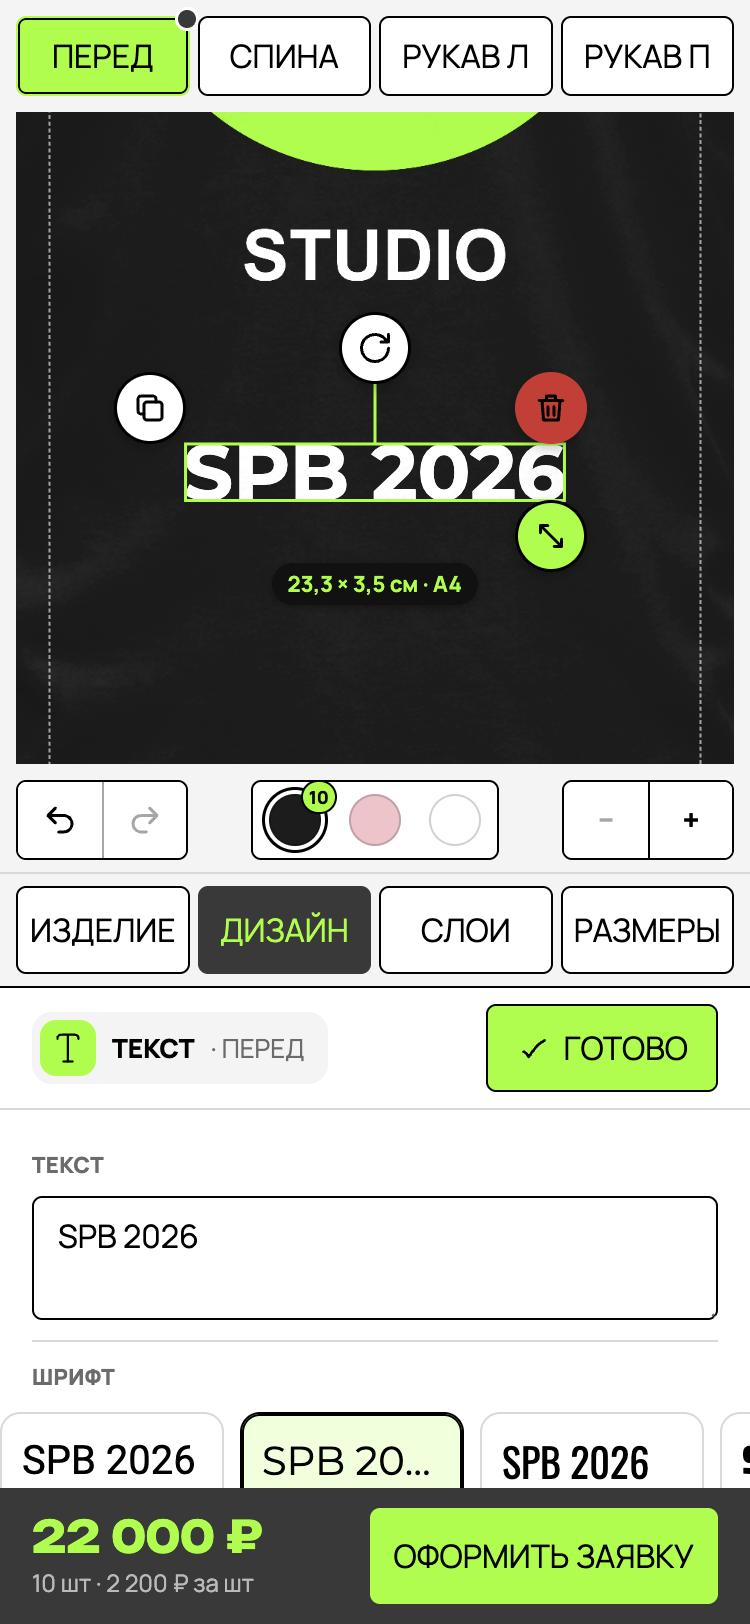
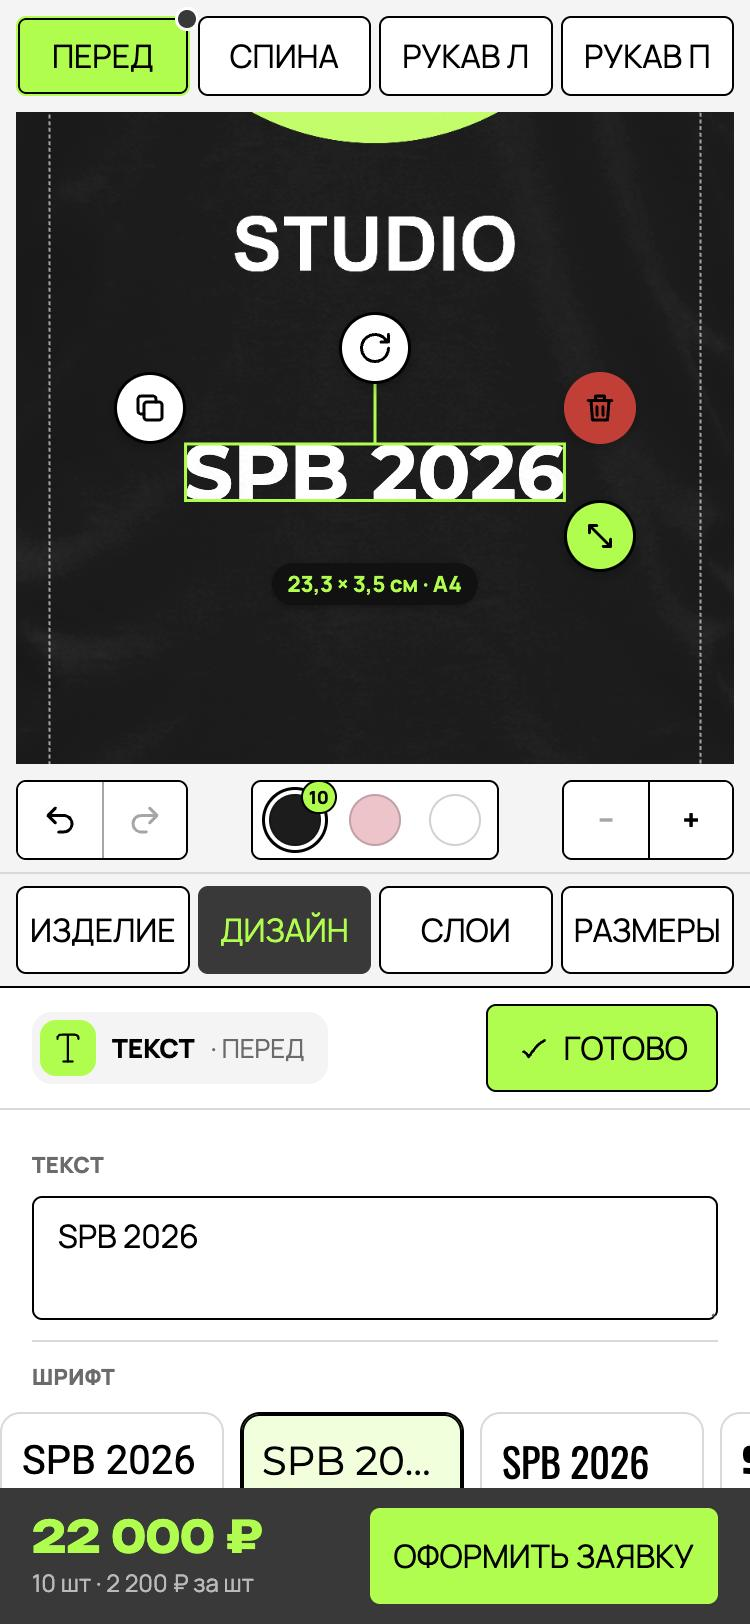
Кнопки слоя и «Выбрать размеры»: исправления после прогона
- Кнопки выбранного слоя ограничиваются краями всего холста, а не кадра 400×460:
  на низком холсте телефона удаление налезало на поворот, подпись — на ручку размера.
- «Выбрать размеры» на десктопе снимает выделение и прокручивает панель к размерам
  (раньше переключала только мобильную вкладку и на десктопе ничего не делала).
- Кадры docs/screens пересняты.

Changed region(s): [[0.276, 0.0616, 0.7053, 0.1847], [0.6747, 0.2155, 0.8587, 0.2771], [0.6747, 0.3079, 0.8587, 0.3695]]

diff --git a/src/features/constructor/ui/ConstructorApp.tsx b/src/features/constructor/ui/ConstructorApp.tsx
@@ -254,7 +254,7 @@ export function ConstructorApp({ ordersEndpoint = '/api/orders' }: { ordersEndpo
   const hasDesign = st.layers.some((l) => sides.includes(l.side));
   const openOrder = () => {
     if (!hasDesign) return setTab('design');
-    if (!price?.qty) return setTab('order');
+    if (!price?.qty) { setTab('order'); return finishTo('order'); }
     setOrderOpen(true);
     track('order_form_open');
   };

diff --git a/src/features/constructor/canvas/DesignStage.tsx b/src/features/constructor/canvas/DesignStage.tsx
@@ -815,7 +815,7 @@ export function DesignStage({ apiRef, empty, zoom: zoomProp, onZoom, focus = fal
           stage={stageRef.current}
           layer={selectedLayer}
           area={{ w: area.w, h: area.h }}
-          size={size}
+          size={box}
           minPx={MIN_NODE_PX}
           accent={accent}
           caption={caption}
